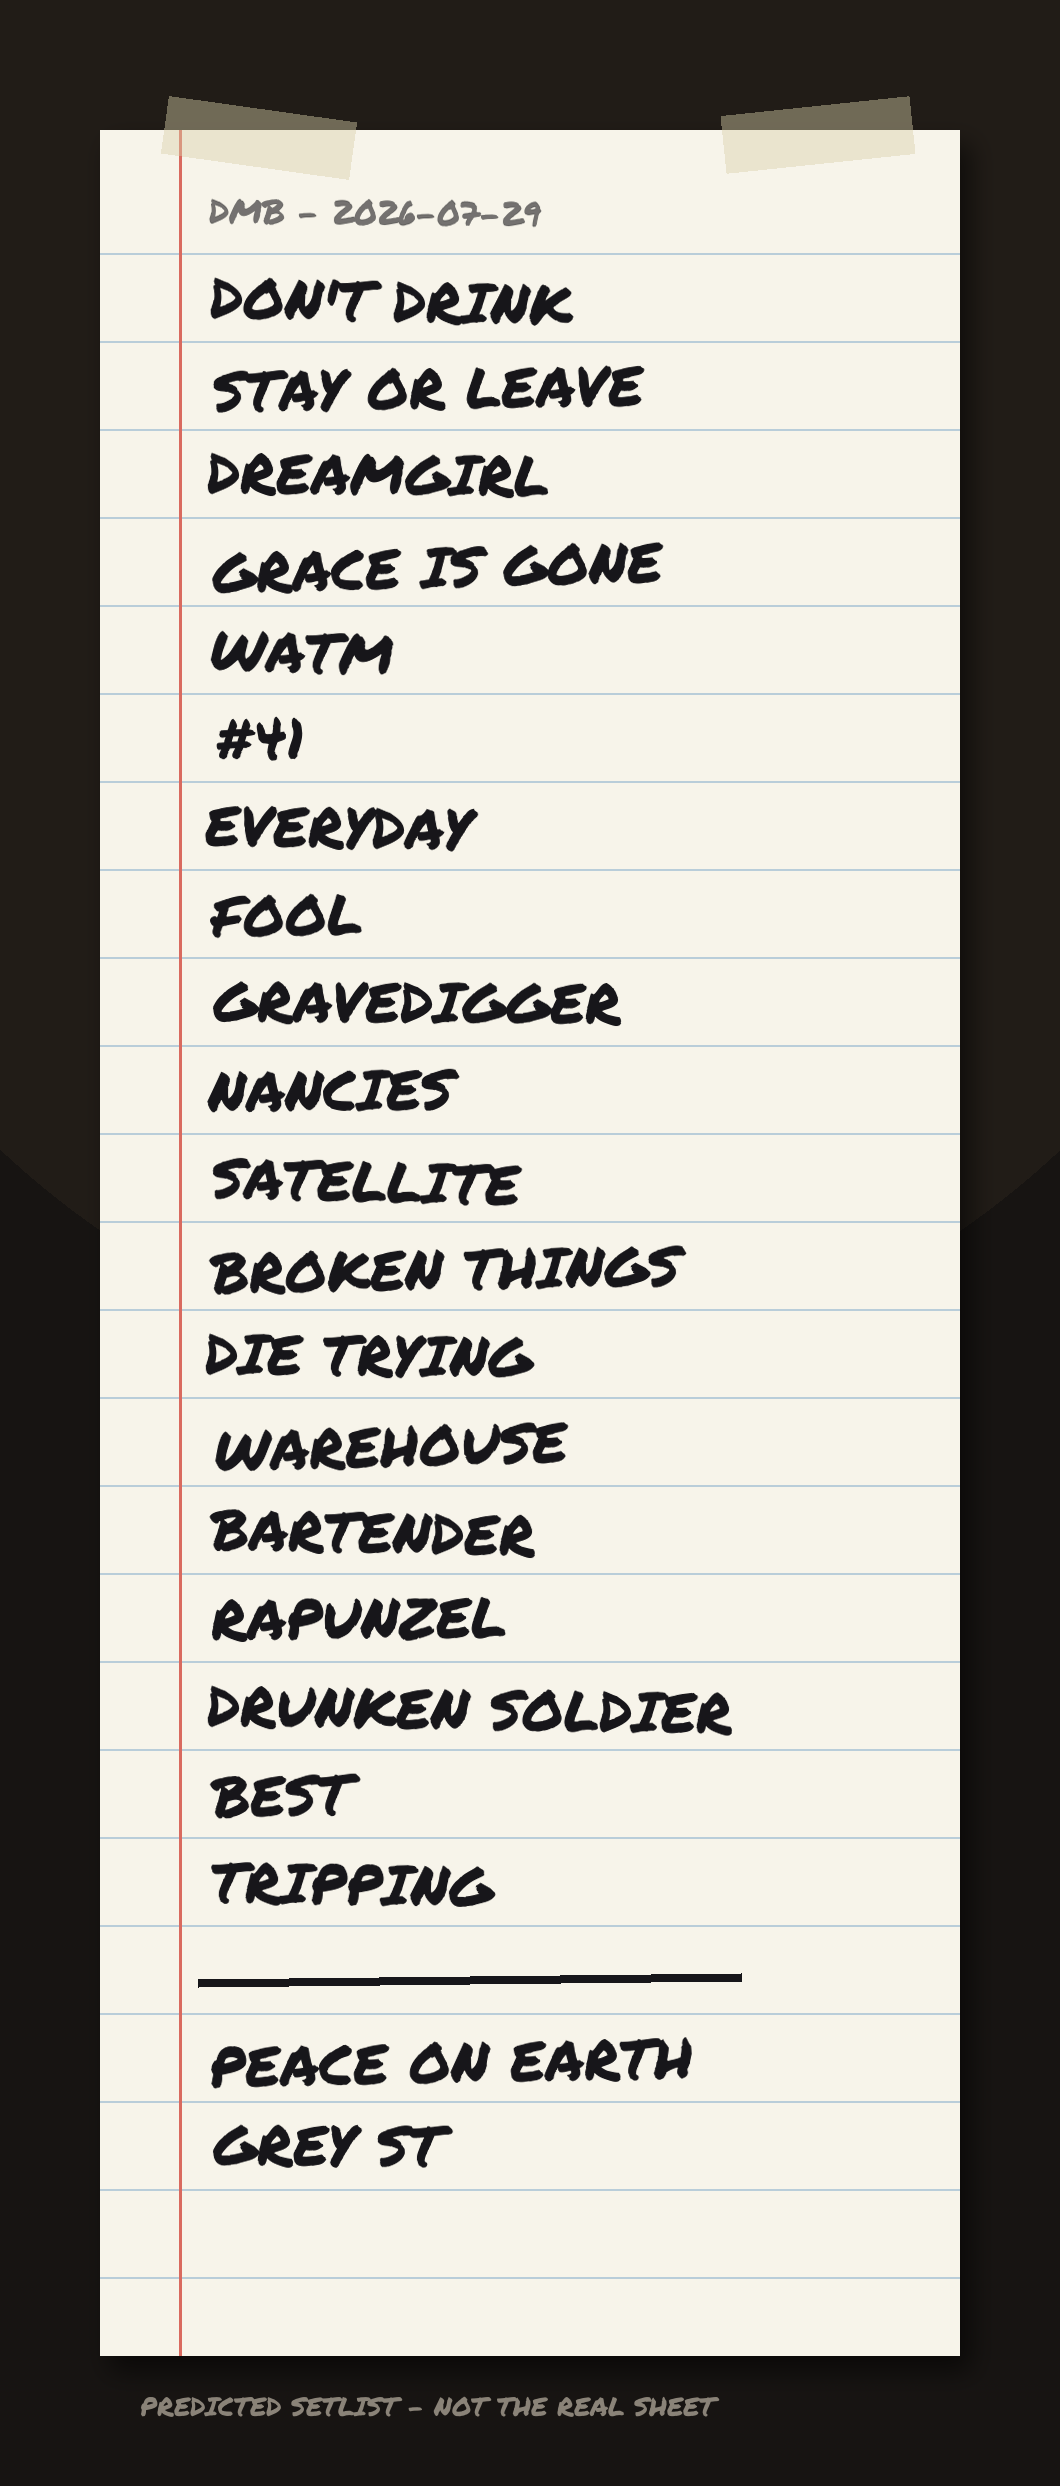
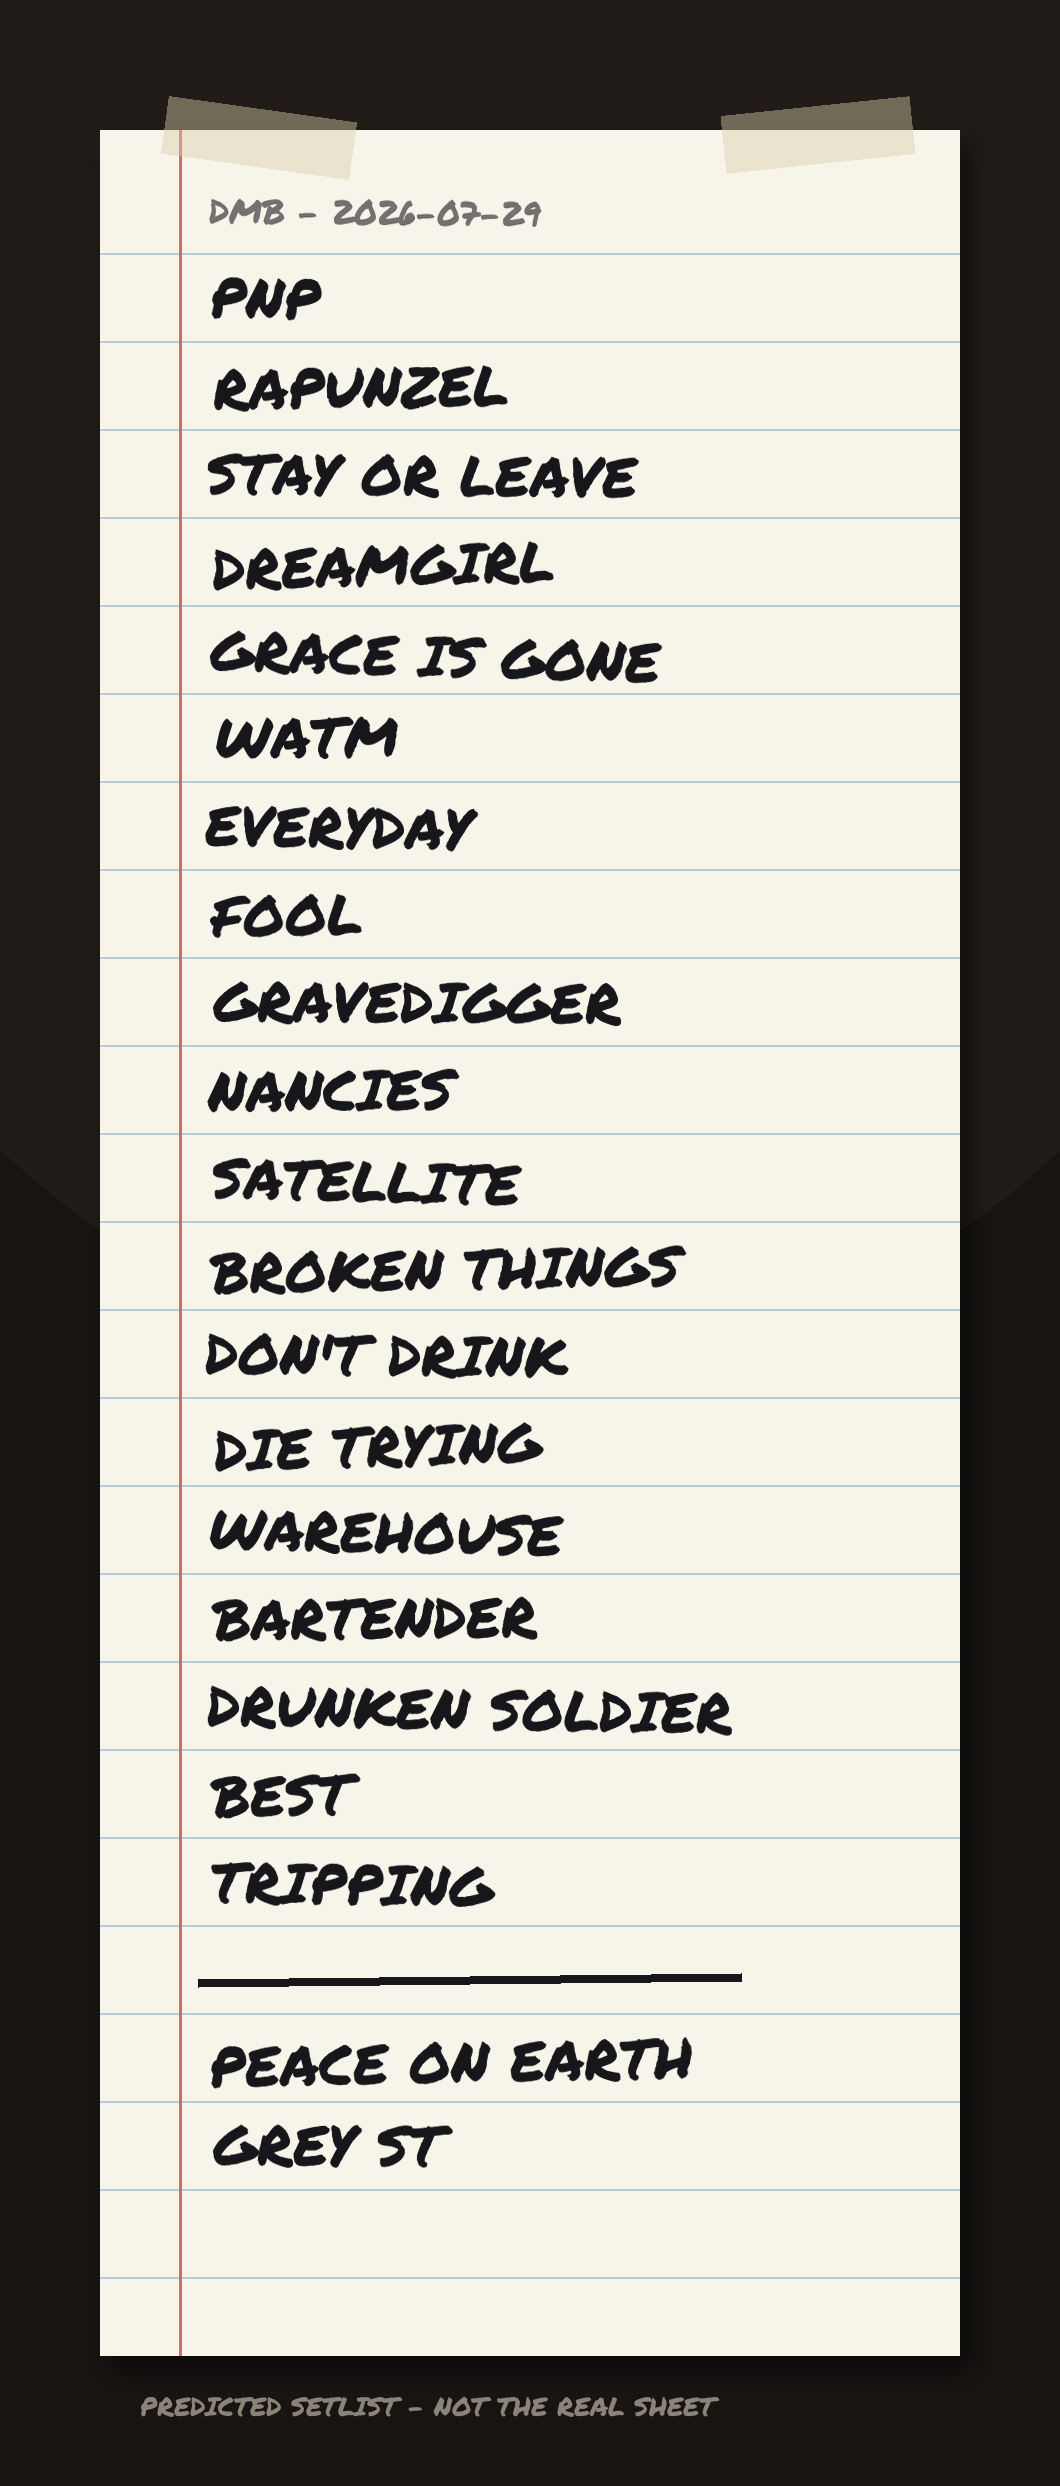
Fix prediction bugs: nondeterminism, bubble dupes, evicted deep cut, orphaned payoffs
- Iterate songs/setlists in sorted order: prob ties broke by hash seed,
  so CI and local runs produced different setlists from identical data
- Bubble now filters against the final setlist, not pre-segue 'chosen':
  apply_segues insertions (e.g. Too Much) showed up in both lists
- Protect the deep-cut pick from the segue-overflow trim, which always
  evicted it first (lowest prob by construction)
- Predecessor swaps: exclude already-added setups from 'weakest' and
  record implied prob (setdefault was a no-op) — each swap was evicting
  the previous rule's setup, leaving payoffs without their intros
  (Rapunzel without PNP); share >= 0.6 now forces the pairing
- Backtest (last 6): 41.9% -> 42.6% hit rate

Changed region(s): [[0.1868, 0.0929, 0.6226, 0.3097], [0.1868, 0.5265, 0.5292, 0.6814]]

diff --git a/site/index.html b/site/index.html
@@ -101,40 +101,40 @@ footer a { color: #8b93a3; }
 <h2 class="marker">Main set</h2>
 <ol><li>
   <span class="num mono">01</span>
-  <span class="song">Don&#x27;t Drink the Water <span class="slot">opener</span>
-    <span class="meta mono">10x this tour &middot; rested 3 shows</span>
+  <span class="song">Pantala Naga Pampa <span class="slot">opener</span>
+    <span class="meta mono">10x this tour &middot; rested 1 show</span>
   </span>
-  <span class="odds mono"><i style="width:40%"></i><b>40</b></span>
+  <span class="odds mono"><i style="width:18%"></i><b>18</b></span>
 </li><li>
   <span class="num mono">02</span>
+  <span class="song">Rapunzel
+    <span class="meta mono">7x this tour &middot; rested 3 shows</span>
+  </span>
+  <span class="odds mono"><i style="width:27%"></i><b>27</b></span>
+</li><li>
+  <span class="num mono">03</span>
   <span class="song">Stay or Leave
     <span class="meta mono">8x this tour &middot; rested 4 shows</span>
   </span>
   <span class="odds mono"><i style="width:25%"></i><b>25</b></span>
 </li><li>
-  <span class="num mono">03</span>
+  <span class="num mono">04</span>
   <span class="song">Dreamgirl
     <span class="meta mono">7x this tour &middot; rested 4 shows</span>
   </span>
   <span class="odds mono"><i style="width:42%"></i><b>42</b></span>
 </li><li>
-  <span class="num mono">04</span>
+  <span class="num mono">05</span>
   <span class="song">Grace Is Gone
     <span class="meta mono">7x this tour &middot; rested 3 shows</span>
   </span>
   <span class="odds mono"><i style="width:27%"></i><b>27</b></span>
 </li><li>
-  <span class="num mono">05</span>
+  <span class="num mono">06</span>
   <span class="song">Walk Around the Moon <span class="slot">deep cut</span>
     <span class="meta mono">7x this tour &middot; rested 10 shows</span>
   </span>
   <span class="odds mono"><i style="width:16%"></i><b>16</b></span>
-</li><li>
-  <span class="num mono">06</span>
-  <span class="song">#41
-    <span class="meta mono">12x this tour &middot; rested 2 shows</span>
-  </span>
-  <span class="odds mono"><i style="width:21%"></i><b>21</b></span>
 </li><li>
   <span class="num mono">07</span>
   <span class="song">Everyday
@@ -173,28 +173,28 @@ footer a { color: #8b93a3; }
   <span class="odds mono"><i style="width:25%"></i><b>25</b></span>
 </li><li>
   <span class="num mono">13</span>
+  <span class="song">Don&#x27;t Drink the Water
+    <span class="meta mono">10x this tour &middot; rested 3 shows</span>
+  </span>
+  <span class="odds mono"><i style="width:40%"></i><b>40</b></span>
+</li><li>
+  <span class="num mono">14</span>
   <span class="song">You Might Die Trying
     <span class="meta mono">8x this tour &middot; rested 3 shows</span>
   </span>
   <span class="odds mono"><i style="width:27%"></i><b>27</b></span>
 </li><li>
-  <span class="num mono">14</span>
+  <span class="num mono">15</span>
   <span class="song">Warehouse
     <span class="meta mono">12x this tour &middot; rested 2 shows</span>
   </span>
   <span class="odds mono"><i style="width:21%"></i><b>21</b></span>
 </li><li>
-  <span class="num mono">15</span>
+  <span class="num mono">16</span>
   <span class="song">Bartender
     <span class="meta mono">5x this tour &middot; rested 5 shows</span>
   </span>
   <span class="odds mono"><i style="width:26%"></i><b>26</b></span>
-</li><li>
-  <span class="num mono">16</span>
-  <span class="song">Rapunzel
-    <span class="meta mono">7x this tour &middot; rested 3 shows</span>
-  </span>
-  <span class="odds mono"><i style="width:27%"></i><b>27</b></span>
 </li><li>
   <span class="num mono">17</span>
   <span class="song">Drunken Soldier
@@ -231,7 +231,7 @@ footer a { color: #8b93a3; }
 </li></ol>
 
 <h2 class="marker">On the bubble</h2>
-<ul><li><span class="song">Crush<span class="meta mono">10x this tour</span></span><span class="odds mono"><i style="width:19%"></i><b>19</b></span></li><li><span class="song">Crash Into Me<span class="meta mono">11x this tour</span></span><span class="odds mono"><i style="width:19%"></i><b>19</b></span></li><li><span class="song">So Much to Say<span class="meta mono">10x this tour</span></span><span class="odds mono"><i style="width:19%"></i><b>19</b></span></li><li><span class="song">Lie in Our Graves<span class="meta mono">10x this tour</span></span><span class="odds mono"><i style="width:19%"></i><b>19</b></span></li><li><span class="song">Too Much<span class="meta mono">11x this tour</span></span><span class="odds mono"><i style="width:19%"></i><b>19</b></span></li><li><span class="song">I Did It<span class="meta mono">11x this tour</span></span><span class="odds mono"><i style="width:18%"></i><b>18</b></span></li><li><span class="song">You &amp; Me<span class="meta mono">10x this tour</span></span><span class="odds mono"><i style="width:18%"></i><b>18</b></span></li><li><span class="song">So Right<span class="meta mono">6x this tour</span></span><span class="odds mono"><i style="width:16%"></i><b>16</b></span></li><li><span class="song">Can&#x27;t Stop<span class="meta mono">3x this tour</span></span><span class="odds mono"><i style="width:15%"></i><b>15</b></span></li><li><span class="song">Louisiana Bayou<span class="meta mono">4x this tour</span></span><span class="odds mono"><i style="width:14%"></i><b>14</b></span></li></ul>
+<ul><li><span class="song">#41<span class="meta mono">12x this tour</span></span><span class="odds mono"><i style="width:21%"></i><b>21</b></span></li><li><span class="song">Crash Into Me<span class="meta mono">11x this tour</span></span><span class="odds mono"><i style="width:19%"></i><b>19</b></span></li><li><span class="song">Crush<span class="meta mono">10x this tour</span></span><span class="odds mono"><i style="width:19%"></i><b>19</b></span></li><li><span class="song">Lie in Our Graves<span class="meta mono">10x this tour</span></span><span class="odds mono"><i style="width:19%"></i><b>19</b></span></li><li><span class="song">So Much to Say<span class="meta mono">10x this tour</span></span><span class="odds mono"><i style="width:19%"></i><b>19</b></span></li><li><span class="song">Too Much<span class="meta mono">11x this tour</span></span><span class="odds mono"><i style="width:19%"></i><b>19</b></span></li><li><span class="song">I Did It<span class="meta mono">11x this tour</span></span><span class="odds mono"><i style="width:18%"></i><b>18</b></span></li><li><span class="song">You &amp; Me<span class="meta mono">10x this tour</span></span><span class="odds mono"><i style="width:18%"></i><b>18</b></span></li><li><span class="song">So Right<span class="meta mono">6x this tour</span></span><span class="odds mono"><i style="width:16%"></i><b>16</b></span></li><li><span class="song">Can&#x27;t Stop<span class="meta mono">3x this tour</span></span><span class="odds mono"><i style="width:15%"></i><b>15</b></span></li></ul>
 
 <h2 class="marker">How it works</h2>
 <div class="method">

diff --git a/predict.py b/predict.py
@@ -284,7 +284,7 @@ def greedy_select(prob, lifts, n, exclude, seed=()):
 
 def apply_segues(order, rules, prob, protected):
     """Reorder/insert so each constrained song is followed by a valid
-    follower. Returns (new_order, inserted_count)."""
+    follower; trims lowest-prob unprotected songs to offset insertions."""
     order = list(order)
     inserted = 0
     i = 0
@@ -342,7 +342,10 @@ def predict(shows, target_date: str) -> dict:
         for song in set(s["songs"]):
             plays_prior[song] += 1
 
-    songs = set(plays_tour) | set(plays_prior)
+    # sorted: prob/rate dicts get a stable insertion order, so downstream
+    # sorts break ties alphabetically instead of by hash seed — otherwise
+    # CI and local runs produce different setlists from identical data
+    songs = sorted(set(plays_tour) | set(plays_prior))
     freq_prior = {s: plays_prior[s] / n_prior for s in songs}
     base = {s: (weighted[s] + SMOOTH_SHOWS * freq_prior[s])
                / (weight_total + SMOOTH_SHOWS) for s in songs}
@@ -384,7 +387,7 @@ def predict(shows, target_date: str) -> dict:
     prior_rate = defaultdict(float)
     recent_prior = prior[-90:]
     for s in recent_prior:
-        for song in set(s["songs"]):
+        for song in sorted(set(s["songs"])):
             prior_rate[song] += 1 / max(len(recent_prior), 1)
 
     prob = {}
@@ -465,23 +468,41 @@ def predict(shows, target_date: str) -> dict:
     # unprotected pick it would replace. Statistically-likely by
     # construction: expected hits never decrease.
     pred_rules = predecessor_rules(history)
+    added_setups = set()
     for b, (a, share) in pred_rules.items():
         if b in members and a not in members and a not in enc_songs:
-            implied = prob.get(b, 0.0) * share
+            # the setup's own probability counts too: PNP can also open
+            # Pig, so its chance of appearing exceeds the Rapunzel-implied
+            # share alone
+            implied = max(prob.get(a, 0.0), prob.get(b, 0.0) * share)
+            # exclude payoffs AND already-added setups from eviction —
+            # otherwise each swap's low-prob setup becomes the next
+            # rule's "weakest" and the swaps cancel each other out
             weakest = min((m for m in members
-                           if m != b and m not in pred_rules),
+                           if m != b and m not in pred_rules
+                           and m not in added_setups),
                           key=lambda m: prob.get(m, 0.0), default=None)
-            if weakest and implied > prob.get(weakest, 0.0):
+            # share >= 0.6 forces the swap: the sheet is a joint
+            # prediction, and conditional on the payoff actually playing,
+            # its modal intro precedes it far more often than the weakest
+            # marginal pick plays at all (e.g. PNP -> Rapunzel)
+            if weakest and (share >= 0.6
+                            or implied > prob.get(weakest, 0.0)):
                 members[members.index(weakest)] = a
-                prob.setdefault(a, implied)
+                # record the implied prob (setdefault was a no-op: every
+                # song already has a model prob) so the setup ranks at
+                # its real chance of appearing, not its solo chance
+                prob[a] = max(prob.get(a, 0.0), implied)
                 chosen.discard(weakest)
                 chosen.add(a)
+                added_setups.add(a)
 
     # Deep-cut slot: real 2026 sets average ~2 songs on a 10+ show gap
     # plus ~2.5 tour debuts; pure probability ranking never picks them.
     # Swap the weakest pick for the best rare candidate (highest career
     # rate among gap>=10/never songs). Backtested ~neutral on hits
     # (top-1 rare hits 24% in 2026 vs the ~20% pick it replaces).
+    deep_cut = None
     if RARE_SLOT:
         rare = {s: prior_rate[s] for s in prior_rate
                 if s not in chosen
@@ -511,8 +532,11 @@ def predict(shows, target_date: str) -> dict:
             middle.remove(a)
             middle.insert(middle.index(b), a)
 
+    # deep cut is protected: it has the lowest prob by construction, so
+    # the segue-overflow trim would always evict it first
     main_order = apply_segues(opener + middle + closer, rules, prob,
-                              protected={*opener, *closer})
+                              protected={*opener, *closer}
+                              | ({deep_cut} if deep_cut else set()))
     middle = [s for s in main_order if s not in (*opener, *closer)]
 
     setlist = ([{"song": s, "slot": "opener"} for s in opener]
@@ -528,10 +552,13 @@ def predict(shows, target_date: str) -> dict:
         if item["slot"] == "main" and (since is None or since >= 10):
             item["deep_cut"] = True
 
+    # filter against the final setlist, not `chosen`: apply_segues can
+    # insert songs (segue followers) and trim others after selection
+    in_set = {item["song"] for item in setlist}
     bubble = [{"song": s, "prob": round(prob[s], 3),
                "plays_tour": plays_tour[s]}
               for s, _ in sorted(prob.items(), key=lambda kv: -kv[1])
-              if s not in chosen][:10]
+              if s not in in_set][:10]
 
     return {"target_date": target_date,
             "n_tour_shows": n_tour, "n_prior_shows": len(prior),
